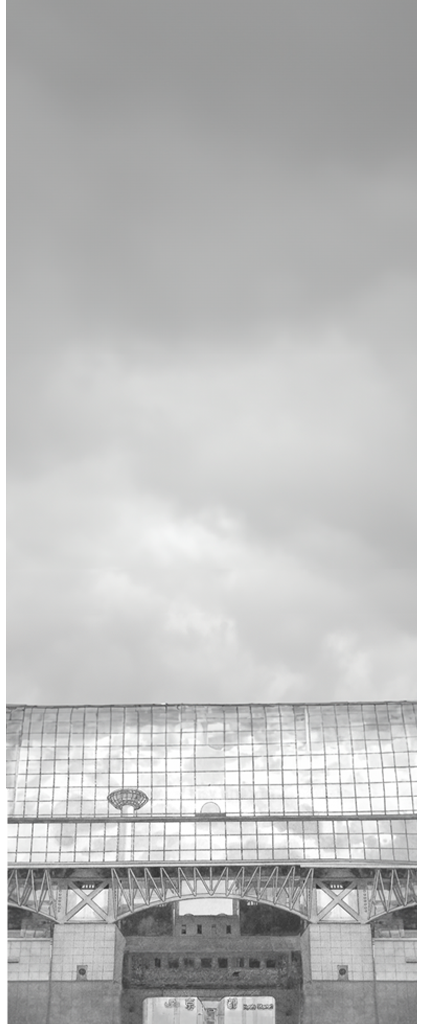
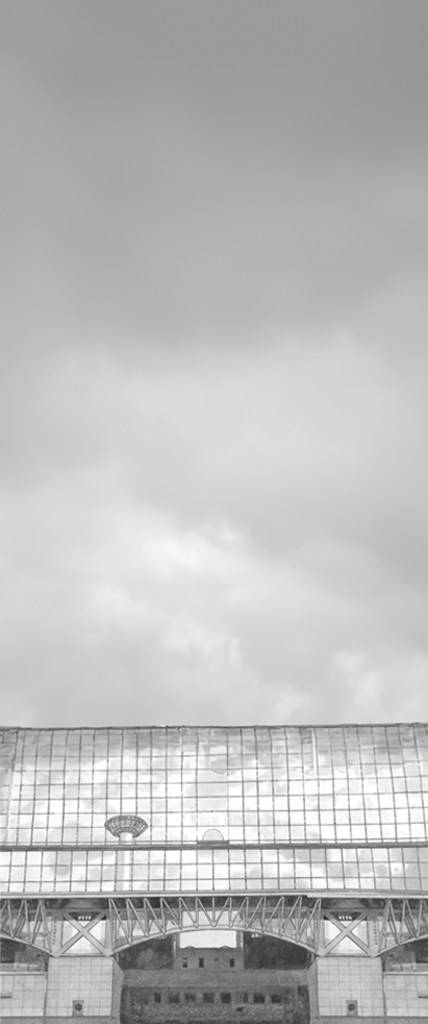
corrections bugs

Changed region(s): [[0.0, 0.0, 1.0, 1.0]]

diff --git a/src/scss/_base.scss b/src/scss/_base.scss
@@ -84,7 +84,7 @@ body {
 .section-title {
   // border: 5px blue solid;
   position: relative;
-  height: 150vh;
+  height: 120vh;
 }
 
 .title {
@@ -131,7 +131,7 @@ body {
 
 .start-link {
   position: absolute;
-  bottom: 45%;
+  bottom: 75%;
   left: 50%;
   transform: translate(-50%, 0%);
   color: white;
@@ -146,7 +146,7 @@ body {
 
 .start-link-bg {
   position: absolute;
-  bottom: 15%;
+  bottom: 25%;
   left: 50%;
   transform: translate(-50%, 0%);
   background: rgba(49, 49, 49, 0.44);
@@ -231,7 +231,7 @@ body {
 
     .button-choice {
       position: absolute;
-      bottom: 23.5%;
+      bottom: 23%;
       left: 47.5%;
       font-size: 20px;
       padding-top: 20px;
@@ -244,10 +244,9 @@ body {
     .fourteen-man:hover {
       transform: scale(1.1);
     }
-
-    .fourteen-man:hover .button-choice {
-      visibility: visible;
-    }
+  }
+  .forest:has(.fourteen-man:hover) .button-choice {
+    visibility: visible;
   }
 }
 
@@ -276,7 +275,7 @@ body {
 
     .button-choice {
       position: absolute;
-      bottom: 21.5%;
+      bottom: 21%;
       left: 40%;
       font-size: 20px;
       padding-top: 20px;
@@ -289,10 +288,9 @@ body {
     .fourty-man:hover {
       transform: scale(1.1);
     }
-
-    .fourty-man:hover .button-choice {
-      visibility: visible;
-    }
+  }
+  .forest:has(.fourty-man:hover) .button-choice {
+    visibility: visible;
   }
 }
 
@@ -443,8 +441,27 @@ body {
   color: white;
 }
 
-.gradient {
+// .gradient {
+//   position: relative;
+//   top: 0;
+//   left: 50%;
+//   z-index: -1;
+// }
+
+.scroll-down {
+  display: flex;
+  flex-direction: column;
+  justify-content: center;
+  align-items: center;
   position: relative;
-  top: 0;
-  left: 60%;
+  top: 85%;
+}
+
+.scroll {
+  font-family: "ff-tisa-sans-web-pro", sans-serif;
+  font-weight: 700;
+  font-style: normal;
+  text-transform: uppercase;
+  padding-bottom: 10px;
+  font-size: 20px;
 }

diff --git a/src/hiroshi-48.html b/src/hiroshi-48.html
@@ -94,7 +94,7 @@
           </div>
         </div>
         <div class="screen ecran-10">
-          <img src="img/48-ans/pieds.png?as=webp" alt="" />
+          <img src="img/48-ans/pieds.png?as=webp" alt="" class="foots" />
           <div class="texte texte-1">Le temps semblait suspendu...</div>
         </div>
         <div class="screen ecran-11">
@@ -136,6 +136,10 @@
         <img src="img/48-ans/14-ans-dark.png" class="fourteen-man" alt="" />
       </a>
       <a href="hiroshi-14.html" class="button-choice">Voir le <br />2e choix</a>
+      <div class="scroll-down">
+        <p class="scroll">Scrollez</p>
+        <img src="img/arrow-down.svg" alt="" />
+      </div>
     </div>
     <div class="book-sell">
       <nav>

diff --git a/src/hiroshi-14.html b/src/hiroshi-14.html
@@ -85,7 +85,7 @@
           </div>
         </div>
         <div class="screen ecran-8">
-          <img src="img/14-ans/pieds.png" alt="" />
+          <img src="img/14-ans/pieds.png" class="foots" />
           <div class="texte texte-1">Le temps semblait suspendu...</div>
         </div>
         <div class="screen ecran-9">
@@ -125,6 +125,10 @@
         <img src="img/14-ans/48-ans-dark.png" class="fourty-man" alt="" />
       </a>
       <a href="hiroshi-48.html" class="button-choice">Voir le <br />2e choix</a>
+      <div class="scroll-down">
+        <p class="scroll">Scrollez</p>
+        <img src="img/arrow-down.svg" alt="" />
+      </div>
     </div>
     <div class="book-sell" id="back">
       <nav>

diff --git a/src/index.html b/src/index.html
@@ -21,12 +21,14 @@
       <div class="row">
         <div class="col-12 section-title" id="center">
           <img class="title" src="img/titre.png" alt="" />
-          <a href="" class="start-link start-link-bg">Clickez pour commencer</a>
+          <a href="index.html#start" class="start-link start-link-bg"
+            >Clickez pour commencer</a
+          >
           <a href="hiroshi-14.html#back" class="BD-link">Voir la Bd</a>
         </div>
       </div>
     </div>
-    <div class="container">
+    <div class="container" id="start">
       <div class="row">
         <div class="col-12 tickets" id="ticket">
           <p class="intro-text">

diff --git a/src/scss/_layout.scss b/src/scss/_layout.scss
@@ -191,6 +191,12 @@
     top: -10%;
   }
 
+  .foots {
+    width: 100%;
+    height: 100%;
+    object-fit: fill;
+  }
+
   .img-10 {
     position: absolute;
     left: 0%;
@@ -362,9 +368,15 @@
     top: -10%;
   }
 
+  .foots {
+    width: 100%;
+    height: 100%;
+    object-fit: fill;
+  }
+
   .img-9 {
     position: absolute;
-    left: 0%;
+    left: -2%;
     bottom: -20%;
   }
 

diff --git a/src/scss/main.scss b/src/scss/main.scss
@@ -1,3 +1,2 @@
 @import "base";
 @import "layout";
-@import "modules/example";
